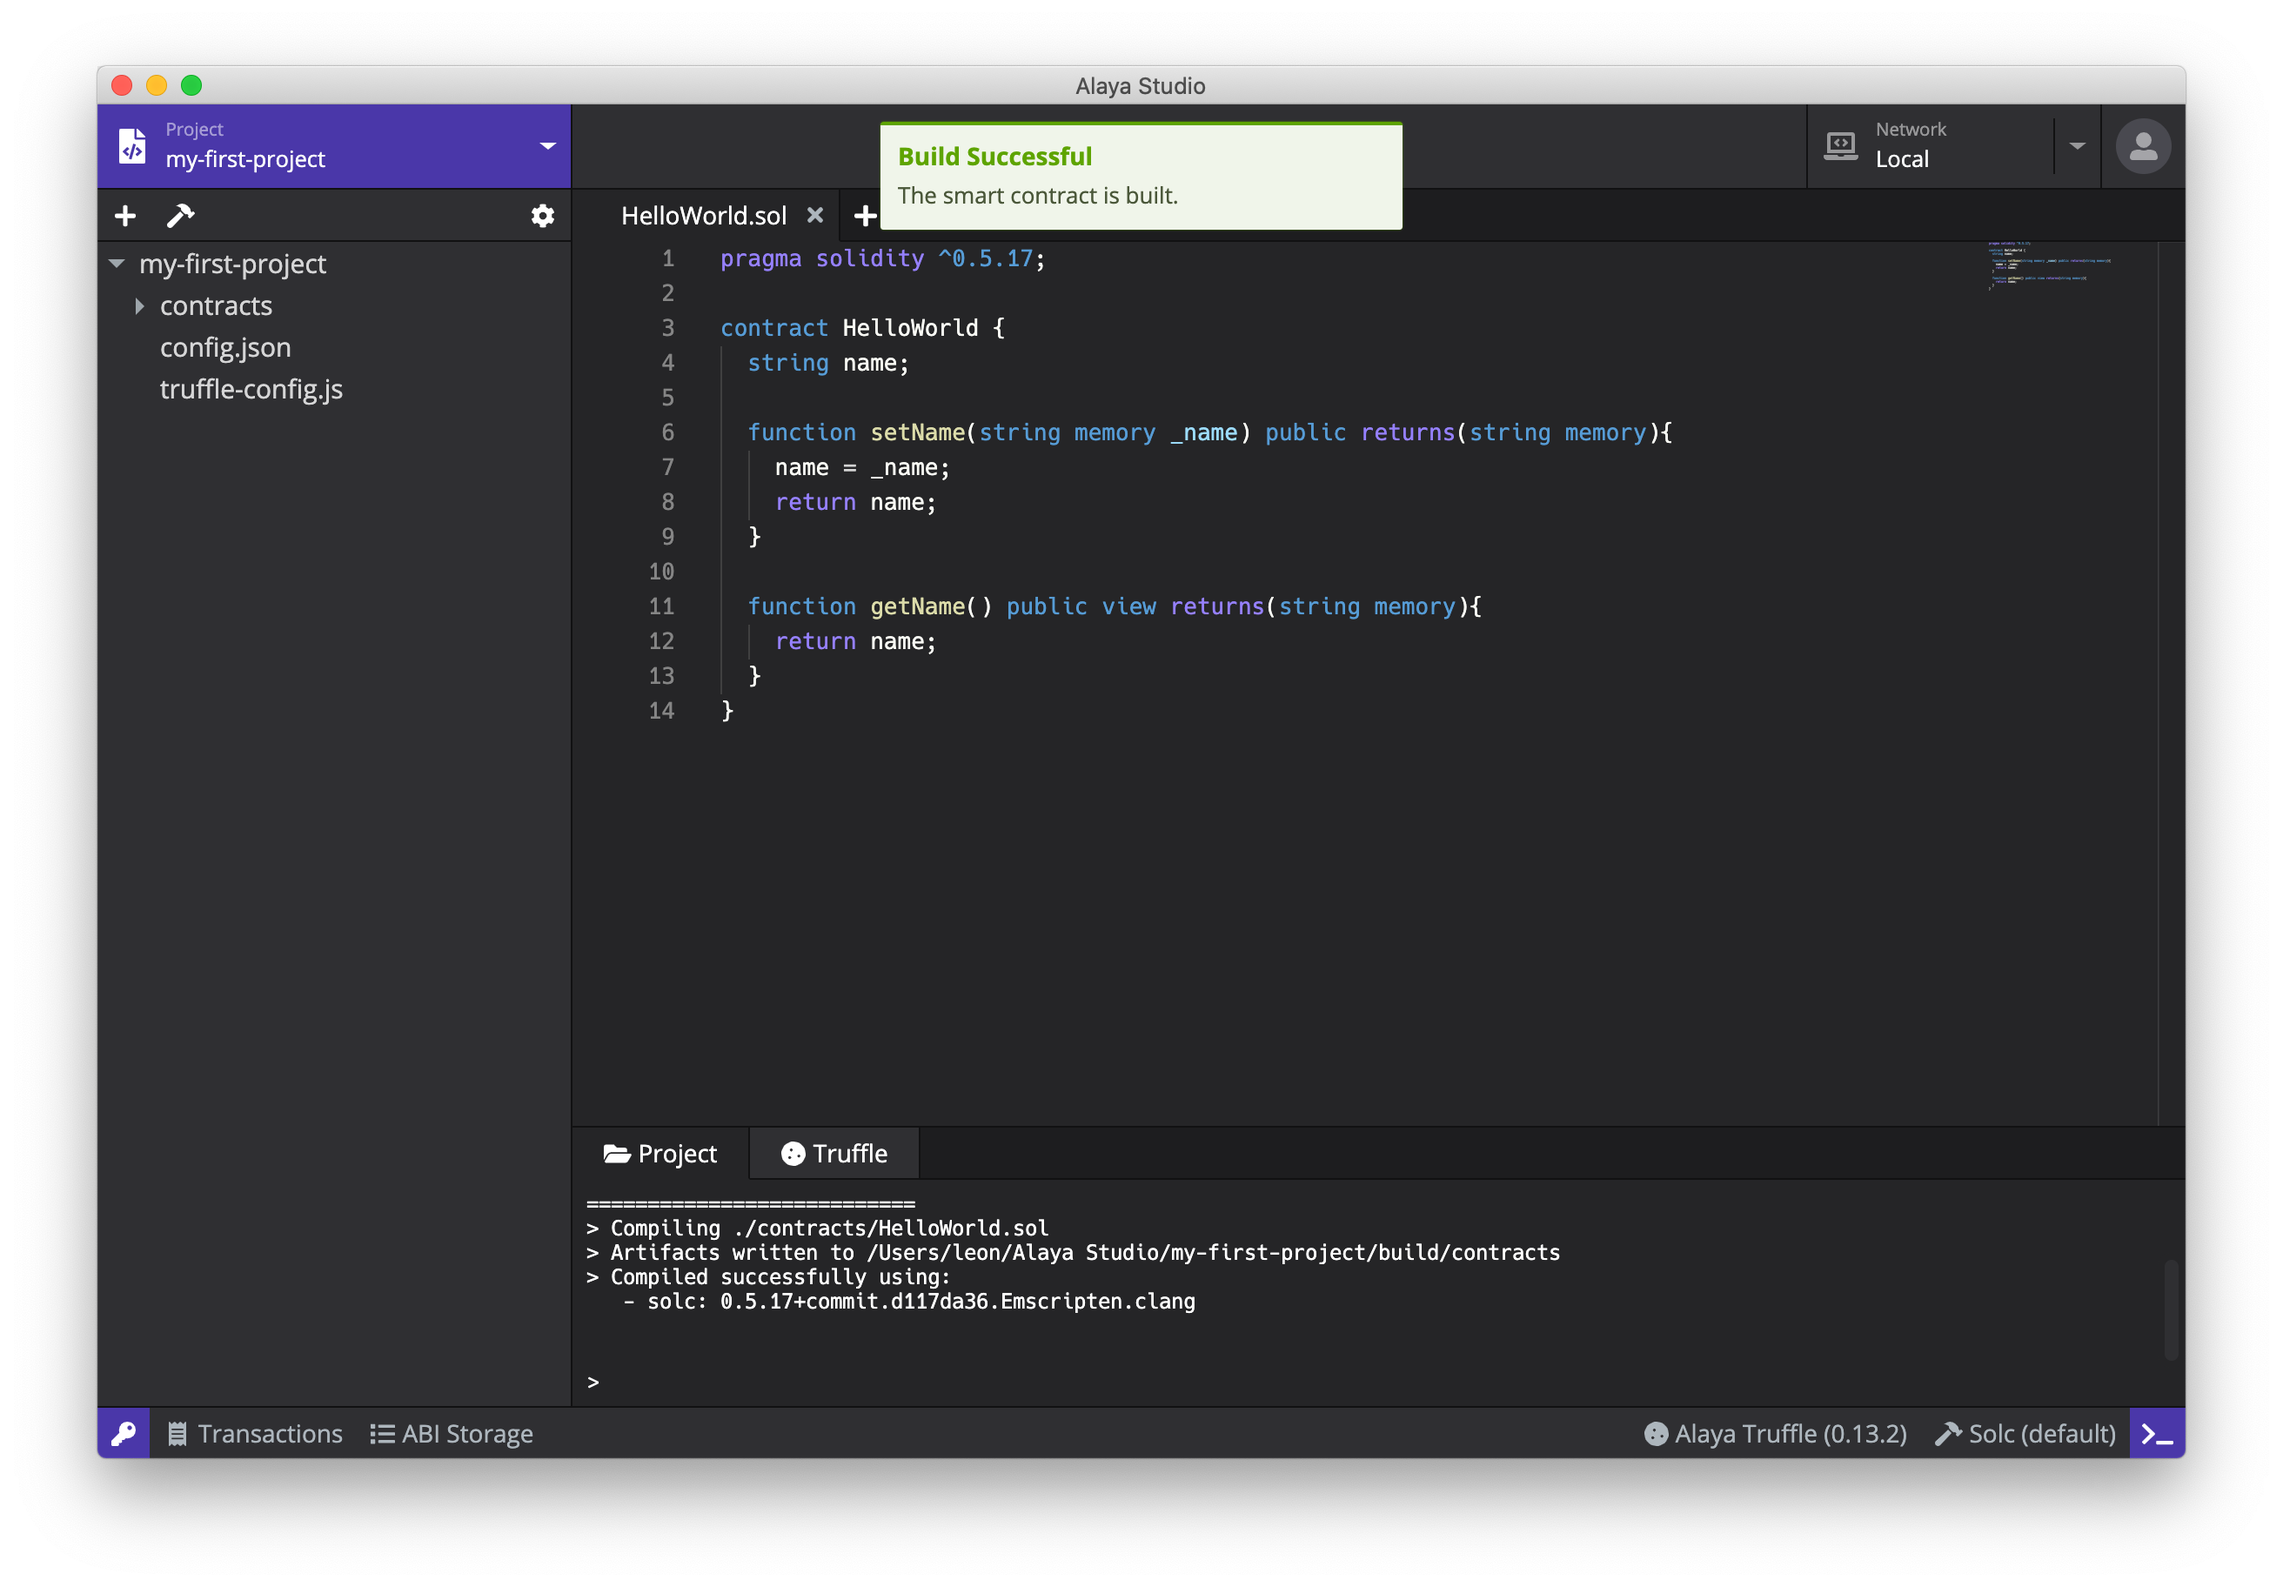
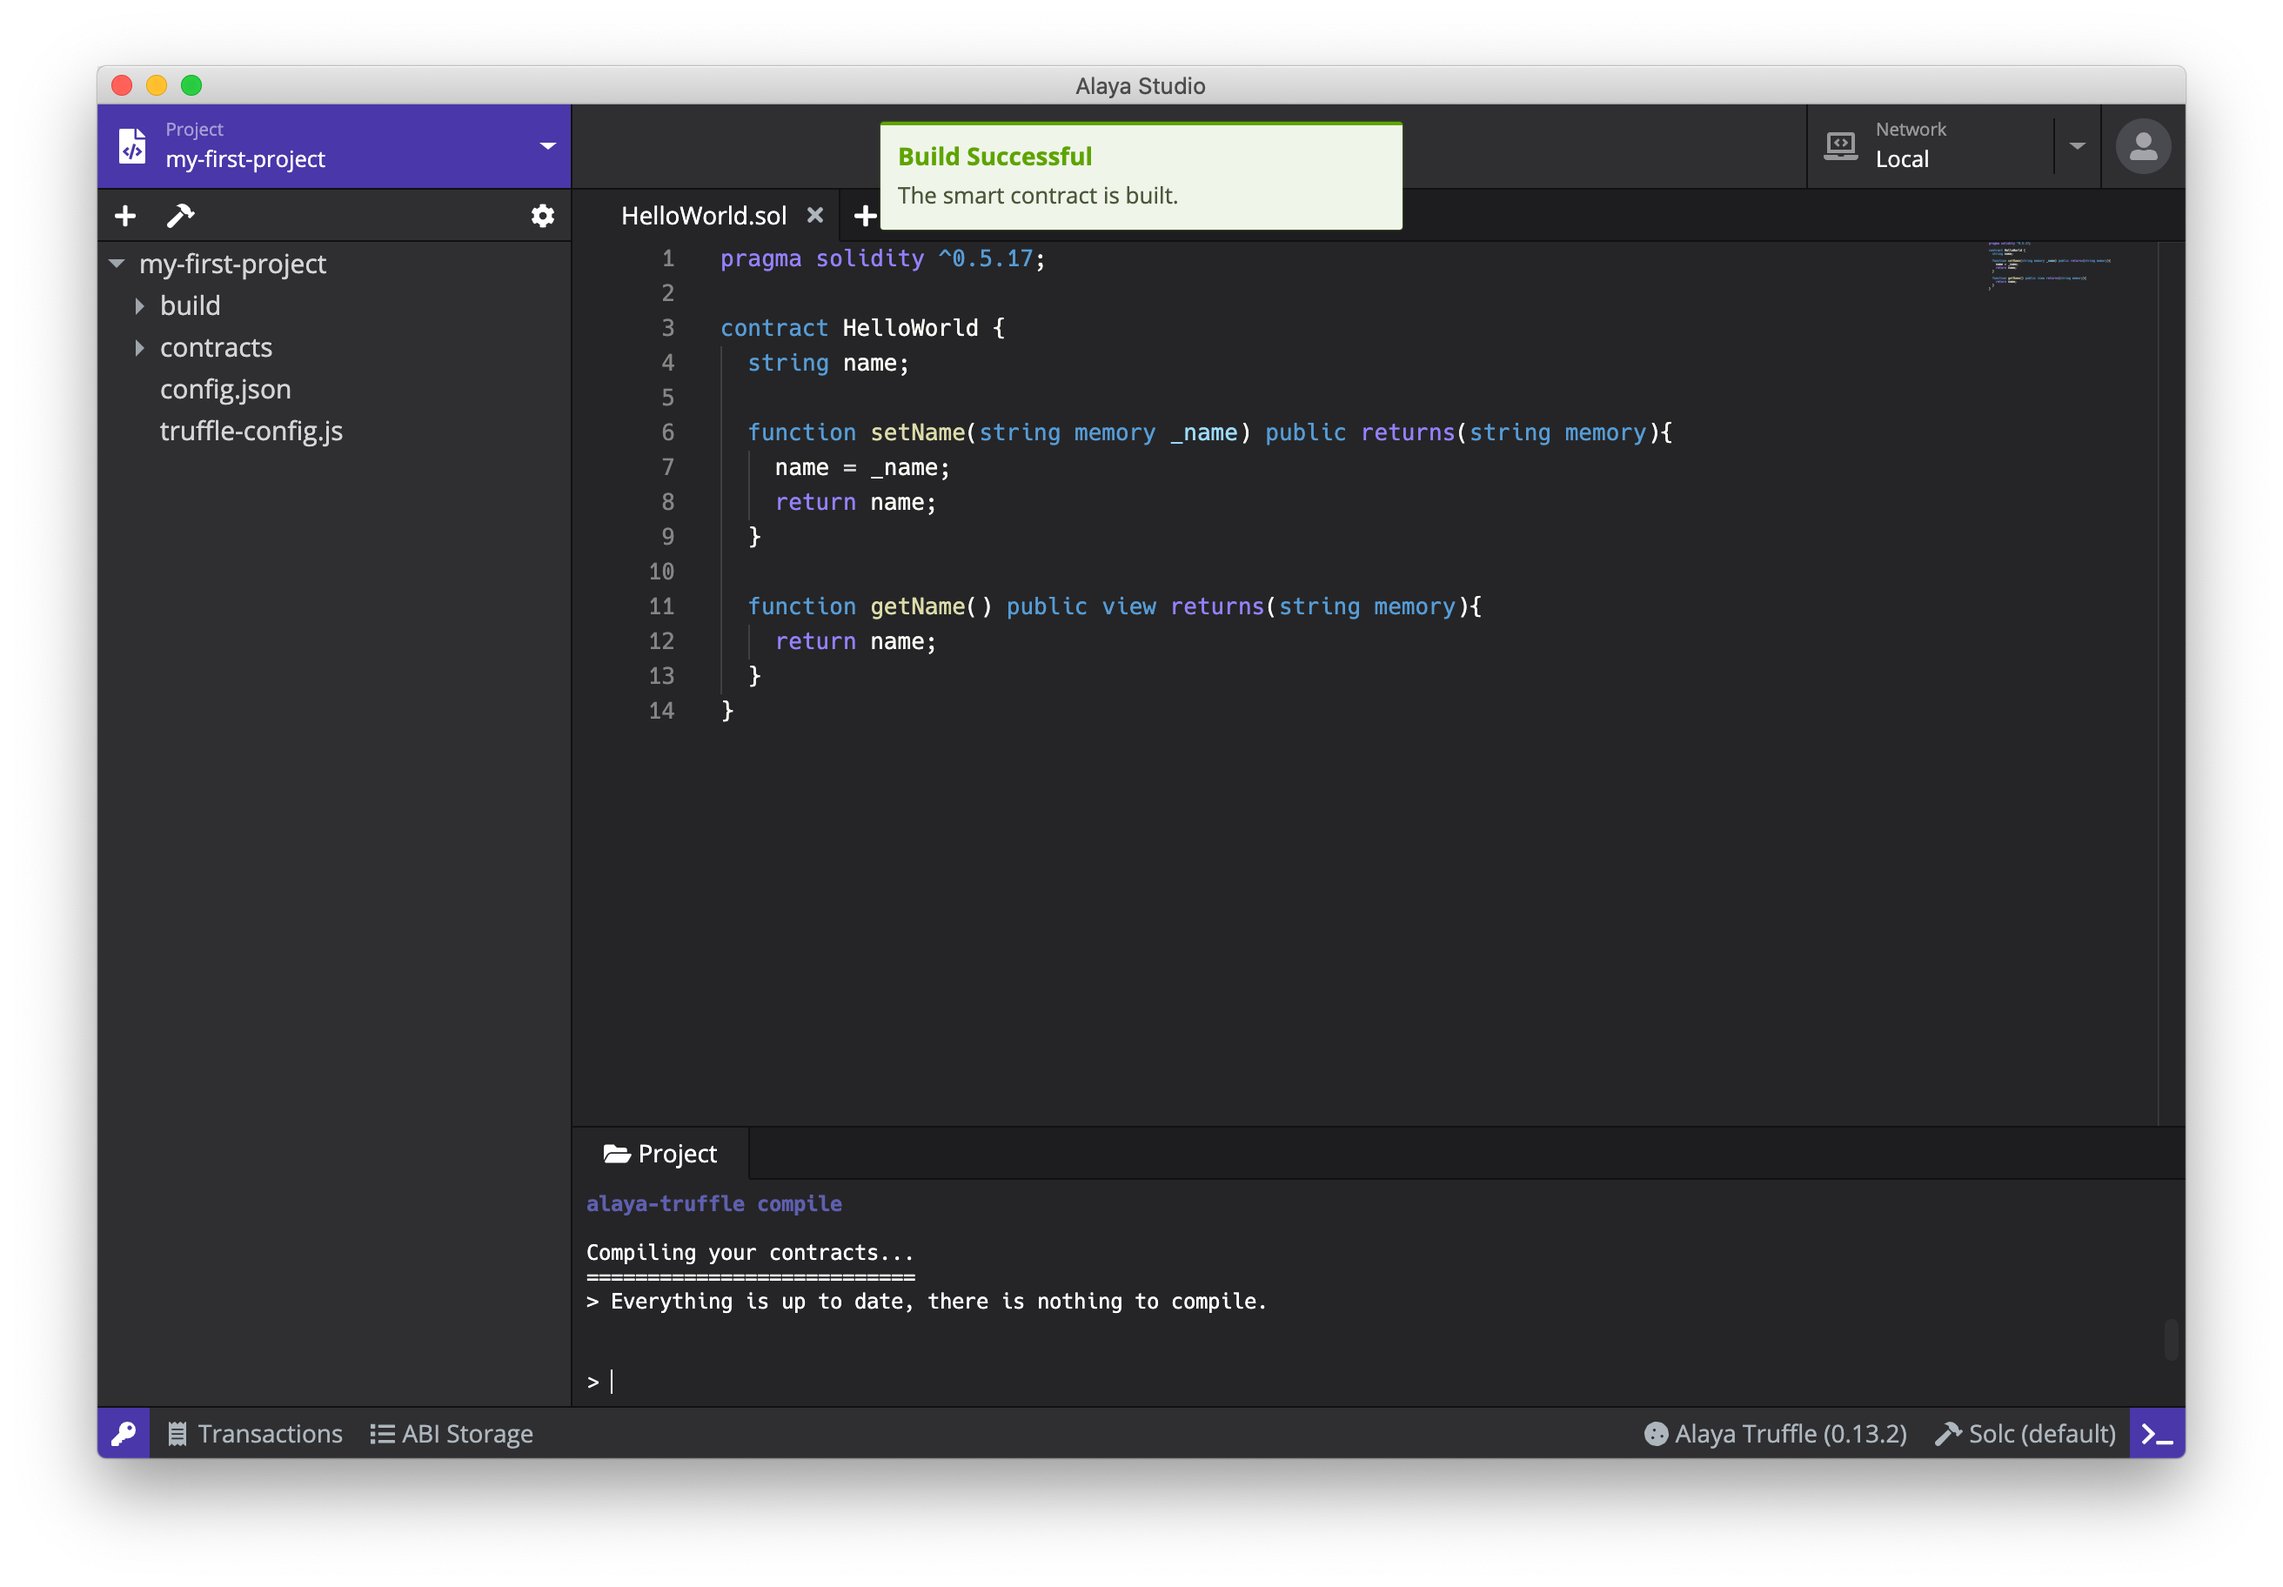
docs: update screenshots

Changed region(s): [[0.25, 0.7188, 0.6875, 0.8438], [0.0625, 0.1875, 0.1562, 0.2812]]

diff --git a/README.md b/README.md
@@ -42,7 +42,7 @@ Alaya Studio 安装包可以下载 [macOS](https://platon-assets-1303090311.cos.
 
 你可以在密钥管理器中创建、导入并管理密钥对。在创建和编辑密钥对的时候，你可以为该密钥对设置别名，方便在后续的使用中进行识别。密钥管理器除了对密钥对进行储存管理外，还将为创世区块提供创世地址。创建新的 Alaya 节点实例时，会使用密钥管理器里所有的地址作为创世地址。
 
-**再继续之前，请先在密钥管理器中创建一些密钥对，作为接下来创建节点实例的创世地址。**
+**在继续之前，请先在密钥管理器中创建一些密钥对，作为接下来创建节点实例的创世地址。**
 
 ### 启动节点
 
@@ -64,9 +64,9 @@ Alaya Studio 安装包可以下载 [macOS](https://platon-assets-1303090311.cos.
 
 点击顶部的 *Project* 标签，主页面将切换至项目管理器。点击页面右上角的 *New* 按钮打开创建项目弹窗，输入项目名称并选择合适的模版，Alaya Studio 目前提供了四个模版：
 
-- `Hello World`(Solidity)
+- `Hello World` (Solidity)
 - `Crowd Funding`
-- `Hello World`(WASM)
+- `Hello World` (WASM)
 - `Mtacoin`
 
 <p align="center">
@@ -77,8 +77,10 @@ Alaya Studio 安装包可以下载 [macOS](https://platon-assets-1303090311.cos.
 
 ### 编译智能合约项目
 
-点击工具栏的编译按钮（锤子形状），Alaya Studio 将进行项目的编译，你可以通过下方的日志查看器来查看编译结果。编译后将在项目目录下的 `build` 文件夹中生成 json 文件。
+点击工具栏的编译按钮（锤子形状），Alaya Studio 将进行项目的编译*，你可以通过下方的日志查看器来查看编译结果。编译后将在项目目录下的 `build` 文件夹中生成 json 文件。
 
 <p align="center">
   <img src="./screenshots/compile.png" width="720px">
 </p>
+
+***编译过程中需要下载 Solc 等编译工具，在国内网路环境下需要翻墙才能完成编译**
